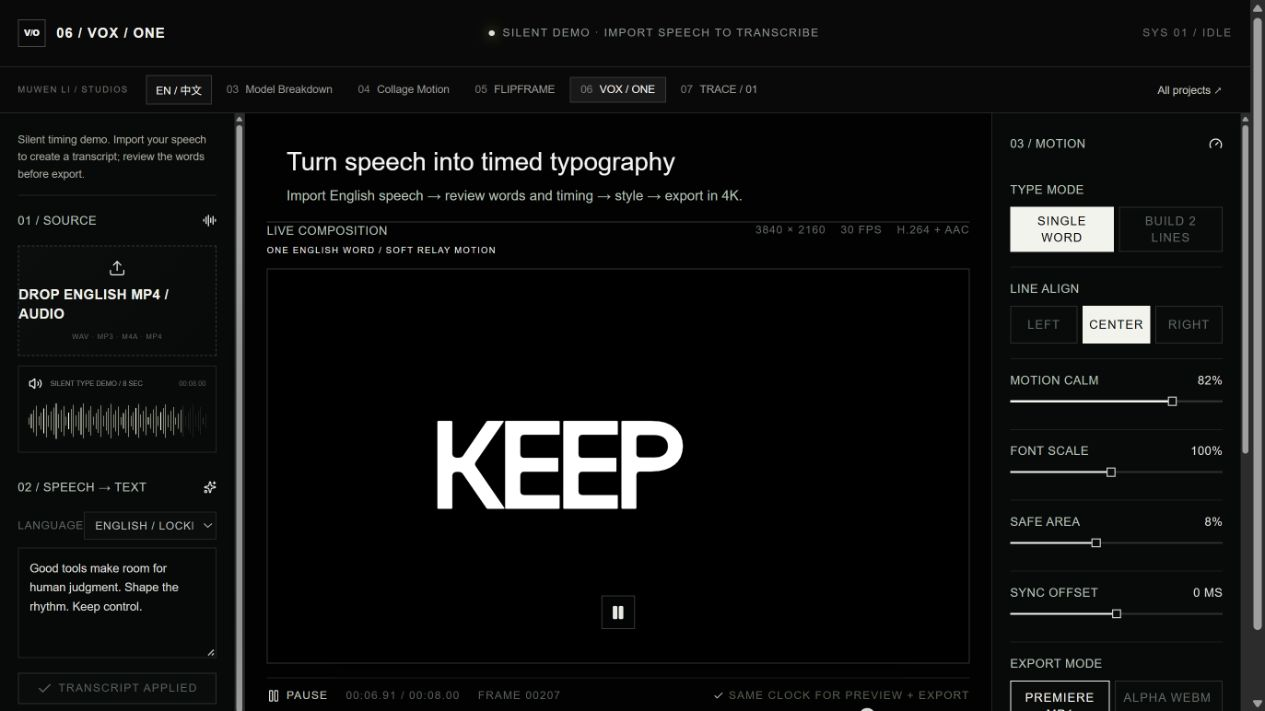
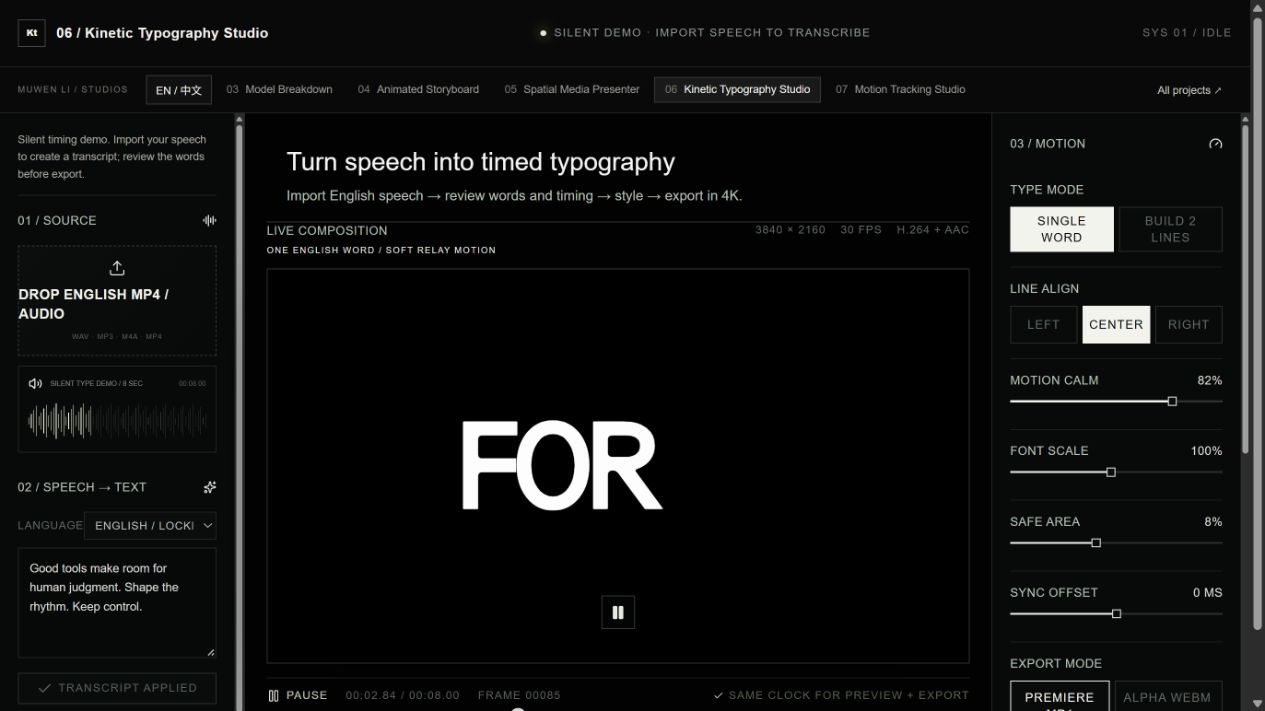
Clarify typography and tracking studio names

diff --git a/docs/collage-motion/index.html b/docs/collage-motion/index.html
@@ -9,7 +9,7 @@
   <div><h1>04 / ANIMATED STORYBOARD <small>MOVING SHOTS → EDITABLE STORYBOARD</small></h1>
   <p><strong>Animated storyboard / shot review &amp; visual pitches.</strong> Compare moving shots, adjust the board, then export a silent review.</p></div>
   <nav class="portfolio-nav" aria-label="Project navigation"><a href="https://github.com/MuwenTriLi/creative-workflows/blob/main/projects/03-collage-motion.md">Project overview ↗</a><a href="https://github.com/MuwenTriLi/creative-workflows#selected-work">All projects ↗</a></nav>
-</header><nav class="family-nav" aria-label="Creative workflow studios"><span>MUWEN LI / STUDIOS</span><a href="https://meshroom-breakdown-studio.limuwen9.chatgpt.site"><b>03</b>Model Breakdown</a><a href="https://muwentrili.github.io/creative-workflows/collage-motion/" aria-current="page"><b>04</b>Animated Storyboard</a><a href="https://flipframe-motion-lab.limuwen9.chatgpt.site"><b>05</b>Spatial Media Presenter</a><a href="https://vox-one.limuwen9.chatgpt.site"><b>06</b>VOX / ONE</a><a href="https://trace-01-motion-tracker.limuwen9.chatgpt.site"><b>07</b>TRACE / 01</a></nav>
+</header><nav class="family-nav" aria-label="Creative workflow studios"><span>MUWEN LI / STUDIOS</span><a href="https://meshroom-breakdown-studio.limuwen9.chatgpt.site"><b>03</b>Model Breakdown</a><a href="https://muwentrili.github.io/creative-workflows/collage-motion/" aria-current="page"><b>04</b>Animated Storyboard</a><a href="https://flipframe-motion-lab.limuwen9.chatgpt.site"><b>05</b>Spatial Media Presenter</a><a href="https://vox-one.limuwen9.chatgpt.site"><b>06</b>Kinetic Typography Studio</a><a href="https://trace-01-motion-tracker.limuwen9.chatgpt.site"><b>07</b>Motion Tracking Studio</a></nav>
 <div id="landscape-collage-editor" lang="zh-CN">
   <style>
     #landscape-collage-editor {

diff --git a/docs/functional-review.md b/docs/functional-review.md
@@ -6,7 +6,7 @@ These are bounded checks on Windows in the Codex in-app Chromium browser. They a
 
 ## Latest studio revision / 23 October
 
-Projects 04–07 now share Model Breakdown's font, numbered navigation and workspace language. English is the default; a Chinese switch is available. Local builds and TypeScript checks passed for Spatial Media Presenter, VOX and TRACE. The latest entrances state each tool’s input, main action and output. Spatial Media Presenter starts Orbital Shift; TRACE starts empty. Model Breakdown uses one public name and a larger, prominent explode control. These presentation changes do not erase the earlier functional limits recorded below.
+Projects 04–07 now share Model Breakdown's font, numbered navigation and workspace language. English is the default; a Chinese switch is available. Local builds and TypeScript checks passed for Spatial Media Presenter, Kinetic Typography Studio and Motion Tracking Studio. The latest entrances state each tool’s input, main action and output. Spatial Media Presenter starts Orbital Shift; Motion Tracking Studio starts empty. Model Breakdown uses one public name and a larger, prominent explode control. These presentation changes do not erase the earlier functional limits recorded below.
 
 Anonymous HTTPS requests to all five public tool entrances returned HTTP 200 after publication. Model Breakdown's Worker-only first-response failure was reproduced locally and fixed by loading the browser Draco decoder during model import instead of server rendering. The production-runtime check now returns 200 and loads the default Press model. This verifies public availability, not equivalent performance on other hardware.
 
@@ -15,8 +15,8 @@ Anonymous HTTPS requests to all five public tool entrances returned HTTP 200 aft
 | Model Breakdown / Press Manufacturing Line | Default 32-part model opens at 1500% explode. Actual local-browser H.264 export: 3840 × 2160, 30 fps, 60 decoded frames, 2.000 s; complete decode passes | This is a two-second technical check. Long sequences, the other two real inputs, all camera angles and other physical devices are not certified |
 | Collage selected 35-shot example | Actual 4K H.264 export: 8 s, 24 fps, 192 frames. All frames decode; image-content checks across all 35 tile interiors show motion rather than a frozen board | Uploaded libraries, many independent video decoders and other devices still require stress testing. The built-in example uses one preview atlas and a higher-resolution export atlas |
 | Spatial Media Presenter revised direct encoder | Two-card 7.45 s / 447 frames and full 25 s / 1,500 frames; both 4K / 60 fps. Sampled frames show the new media and HUD | Long encoding can make the browser unresponsive. Compatibility capture, 6K/8K and other devices are not revalidated |
-| VOX initial example | Eight-second authored silent typography example, with live style controls | This is not a fresh speech-recognition or export test; the earlier synthetic-speech result below has a separate scope |
-| TRACE import-first entrance | No bundled video. Local synthetic clip imports paused with a visible first frame; no target is chosen automatically. Basic moving-target playback and explicit anchor placement checked | Difficult motion and occlusion are not benchmarked. The previous encoded timing failure remains unresolved |
+| Kinetic Typography Studio initial example | Eight-second authored silent typography example, with live style controls | This is not a fresh speech-recognition or export test; the earlier synthetic-speech result below has a separate scope |
+| Motion Tracking Studio import-first entrance | No bundled video. Local synthetic clip imports paused with a visible first frame; no target is chosen automatically. Basic moving-target playback and explicit anchor placement checked | Difficult motion and occlusion are not benchmarked. The previous encoded timing failure remains unresolved |
 
 The Collage 4K fix loads the export atlas as a seekable local Blob before frame sampling. An earlier non-seekable media response had produced repeated image content even while the HUD moved. The acceptance check therefore inspects the shot interiors, not just the container duration. Spatial Media Presenter now considers a supported no-preference WebCodecs configuration before falling back to real-time recording.
 
@@ -33,8 +33,8 @@ The table and reproduction notes below describe the earlier source revisions, be
 | 03 Model Breakdown | Original hosted app: three-part synthetic GLB → orientation/explode/selection → 2 s export. Later, supplied Wood House / Press Manufacturing Line / Car Production Line: loading, switching/cancel, explode, selection; local Wood House file import | Synthetic export: H.264, 3840 × 2160, 30 fps, 60 frames, 2.000 s, full decode. Three real inputs retain 18 / 32 / 30 named parts; 19 tests and production build pass. [Library check](https://github.com/MuwenTriLi/model-breakdown-studio/blob/main/docs/example-model-review.md) | Full export and continuous-frame quality from the three real inputs remain unverified. Four supplied architectural films are separate final-output evidence, not newly reproduced exports |
 | 04 Animated Storyboard | Supplied 40-clip library, 20-shot default presentation with source captions and board paging, sample switching, single-cell replacement, local test-image import and replacement/cancel gate; earlier mixed-proportion image and timeline checks | New 20-shot board export: H.264, 1920 × 1080, 24 fps, 192 frames, 8.000 s; full decode; source captions and review framing included. All 40 viewing copies decode | One browser/configuration; large visitor videos, long projects, 4K and an unassisted creator session remain to check |
 | 05 Spatial Media Presenter | Import a synthetic 4 s clip; trim that clip to 2 s; set a two-card showcase; export 4K | The UI expected 4.65 s. The downloaded H.264 compatibility-path file is **95.0367 s**, with 278 decoded frames and average frame rate about 2.96 fps. **Timing acceptance fails.** | This is one environment/configuration. A completion message is not evidence of a timing-correct export. Existing archive media was not republished |
-| 06 VOX / ONE | Import 7.55 s local synthetic English speech → automatic transcript → punctuation correction → Confirm & Apply → Build 2 Lines → MP4 | All 16 spoken words matched this fixture. Punctuation-only edit preserved displayed word times. H.264 4K / 30 fps / 227 frames with AAC audio; container 7.5733 s; full decode passes | Not a speech accuracy benchmark. No proper-noun/noise/accent test, precise perceptual sync measurement, alpha export or NLE round trip |
-| 07 TRACE / 01 | 4 s moving target with an occluder → Follow Object → target selection → playback → FHD export | Confidence fell during the run and ended at 88%; the exported midpoint shows REACQUIRE. H.264 file decodes, but **3.8267 s / 97 frames / about 25.35 average fps** does not meet the stated 60 fps timing contract | No target-accuracy score or reliable occlusion recovery claim. Local frame/interval repair remains unverified |
+| 06 Kinetic Typography Studio | Import 7.55 s local synthetic English speech → automatic transcript → punctuation correction → Confirm & Apply → Build 2 Lines → MP4 | All 16 spoken words matched this fixture. Punctuation-only edit preserved displayed word times. H.264 4K / 30 fps / 227 frames with AAC audio; container 7.5733 s; full decode passes | Not a speech accuracy benchmark. No proper-noun/noise/accent test, precise perceptual sync measurement, alpha export or NLE round trip |
+| 07 Motion Tracking Studio | 4 s moving target with an occluder → Follow Object → target selection → playback → FHD export | Confidence fell during the run and ended at 88%; the exported midpoint shows REACQUIRE. H.264 file decodes, but **3.8267 s / 97 frames / about 25.35 average fps** does not meet the stated 60 fps timing contract | No target-accuracy score or reliable occlusion recovery claim. Local frame/interval repair remains unverified |
 
 ## Export issues that change the product decision
 
@@ -46,7 +46,9 @@ Read-only source inspection found a direct encoder and a MediaRecorder compatibi
 
 **Next acceptance fixture:** 4.65 s at 60 fps should produce the intended 279-frame sequence with monotonic presentation timestamps and duration within one output frame of the agreed endpoint convention. Inspect the first/last frame and card order. Unsupported devices should receive a clear limitation instead of a success claim for a mistimed file. Iterate export before adding 6K/8K features.
 
-### TRACE: verify encoded timing and target identity separately
+<a id="trace-verify-encoded-timing-and-target-identity-separately"></a>
+
+### Motion Tracking Studio: verify encoded timing and target identity separately
 
 Reproduction: import the 960 × 540 / 30 fps / 4 s synthetic occlusion clip, select Follow Object, click the target, preview and export at FHD. The current file is decodable but shorter and less evenly sampled than the interface promises.
 
@@ -54,13 +56,13 @@ Reproduction: import the 960 × 540 / 30 fps / 4 s synthetic occlusion clip, sel
 
 ## Where processing happens
 
-Read-only source checks found browser-local handling on the tested paths: Spatial Media Presenter canvas/video encoding, TRACE image-template tracking and MediaRecorder export, and VOX Whisper inference via Transformers.js/WASM plus local video/audio encoding. VOX downloads public model weights on first use. No paid inference API invocation was found in these tested paths or made during this audit. This is not a general security or billing audit of every dependency.
+Read-only source checks found browser-local handling on the tested paths: Spatial Media Presenter canvas/video encoding, Motion Tracking Studio image-template tracking and MediaRecorder export, and Kinetic Typography Studio Whisper inference via Transformers.js/WASM plus local video/audio encoding. Kinetic Typography Studio downloads public model weights on first use. No paid inference API invocation was found in these tested paths or made during this audit. This is not a general security or billing audit of every dependency.
 
 That initial read-only audit left the three source checkouts unchanged. The later authorized studio revision modified and published the Sites apps; their full source was not copied into this portfolio repository. Only user-approved display media and documentation were added.
 
 ## Source and verification scope
 
-Original hosted source revisions inspected: Spatial Media Presenter `0ccc833`, VOX `a72b85a`, TRACE `1ad6a04`. Collage UI revision: `0593cef`. Model Breakdown's hosted check is separate from the repository's earlier local-adaptation tests.
+Original hosted source revisions inspected: Spatial Media Presenter `0ccc833`, Kinetic Typography Studio `a72b85a`, Motion Tracking Studio `1ad6a04`. Collage UI revision: `0593cef`. Model Breakdown's hosted check is separate from the repository's earlier local-adaptation tests.
 
 Encoded files were inspected with ffprobe and decoded with FFmpeg while retaining their source time base. Sampled frames were visually checked. This does not establish uninterrupted visual quality or a completed professional editor round trip. No efficiency, adoption or general accuracy percentage is claimed.
 
@@ -70,7 +72,7 @@ This earlier revision exported its sample board from the Collage editor. It used
 
 ## First-visit acceptance scope
 
-The revised Model, Spatial Media Presenter, VOX and TRACE production builds completed locally. Spatial Media Presenter, VOX and TRACE pass TypeScript. Model’s 19 geometry, integrity and application checks pass; its whole-repository TypeScript command still encounters the pre-existing Cloudflare worker declarations described in the model-library review. UI review used a 1280-pixel desktop browser. Anonymous public entry and asset loading are checked after publication; no claim is made that every physical computer performs identically.
+The revised Model, Spatial Media Presenter, Kinetic Typography Studio and Motion Tracking Studio production builds completed locally. Spatial Media Presenter, Kinetic Typography Studio and Motion Tracking Studio pass TypeScript. Model’s 19 geometry, integrity and application checks pass; its whole-repository TypeScript command still encounters the pre-existing Cloudflare worker declarations described in the model-library review. UI review used a 1280-pixel desktop browser. Anonymous public entry and asset loading are checked after publication; no claim is made that every physical computer performs identically.
 
 See the [first task and export guide](studio-delivery.md) for the actions a reviewer can follow.
 
@@ -84,7 +86,7 @@ An actual 4K MP4 was exported with source 053 excluded: H.264, **3840 × 2160, 2
 
 The two replacement Model Breakdown films preserve the complete supplied durations (11.5 and 11 seconds) at 30 fps. The web MP4s are 1080 × 1920 derivatives of the supplied 2160 × 3840 originals; README animations are smaller previews. [Watch the complete films](https://muwentrili.github.io/creative-workflows/model-breakdown-films/).
 
-The three Sites affected by the navigation/name update built successfully before publication. The [sharing guide](share-and-review.md) distinguishes public access checks from physical-device performance and keeps TRACE's existing export-timing limitation explicit.
+The three Sites affected by the navigation/name update built successfully before publication. The [sharing guide](share-and-review.md) distinguishes public access checks from physical-device performance and keeps Motion Tracking Studio's existing export-timing limitation explicit.
 
 Post-publication anonymous checks returned HTTP 200 for all five studio entrances and **98 hosted resources**: the 35 storyboard source clips and posters, both playback/export atlases, 15 spatial-presentation visuals, six model-library resources and the five new film-page files. The requests used no account cookies or credentials. Public UI checks confirmed the renamed navigation and the 35-source manager. This verifies availability and the exercised desktop workflows, not identical performance on another physical device.
 
@@ -96,8 +98,8 @@ The packaged copy was served on local HTTP and opened in the review browser: the
 
 ## 2026-10-23 / Portfolio navigation and documentation review
 
-The presentation follows projects 01–07: Clockwork, Architecture Growth, Model Breakdown, Animated Storyboard, Spatial Media Presenter, VOX and TRACE. The project index separates case-study links from direct app/film entrances; implementation, controls and source remain available inside the cases. The repository map and versioned local demo release remain in place.
+The presentation follows projects 01–07: Clockwork, Architecture Growth, Model Breakdown, Animated Storyboard, Spatial Media Presenter, Kinetic Typography Studio and Motion Tracking Studio. The project index separates case-study links from direct app/film entrances; implementation, controls and source remain available inside the cases. The repository map and versioned local demo release remain in place.
 
-This review checked 49 Markdown documents across the three public portfolio repositories and 629 internal or cross-repository file/heading references. One stale Spatial Media Presenter anchor was repaired. All 84 distinct public URLs checked returned HTTP 200 or 206 without account credentials, including 17 film files and their covers. The five studio entrances were also opened in the desktop review browser: the model loaded, Storyboard showed its 35-shot board, Spatial Media Presenter loaded its 15-work example, VOX showed its authored text demo, and TRACE opened empty for import.
+This review checked 49 Markdown documents across the three public portfolio repositories and 629 internal or cross-repository file/heading references. One stale Spatial Media Presenter anchor was repaired. All 84 distinct public URLs checked returned HTTP 200 or 206 without account credentials, including 17 film files and their covers. The five studio entrances were also opened in the desktop review browser: the model loaded, Storyboard showed its 35-shot board, Spatial Media Presenter loaded its 15-work example, Kinetic Typography Studio showed its authored text demo, and Motion Tracking Studio opened empty for import.
 
 Outdated sample counts, historical-result labels and current control names were reconciled. These are navigation, availability and initial-interface checks. No fresh export benchmark, independent creator study or second-physical-computer certification was performed in this documentation revision; the existing delivery limitations above still apply.

diff --git a/README.md b/README.md
@@ -21,10 +21,10 @@ I model, direct visual production and use AI-assisted code to turn recurring pro
 | **03 · [Model Breakdown Studio](https://github.com/MuwenTriLi/model-breakdown-studio)** | A dense model is hard to explain → selectable parts, exploded views and editable reveals | [Open&nbsp;web&nbsp;app](https://meshroom-breakdown-studio.limuwen9.chatgpt.site) |
 | **04 · [Animated Storyboard](projects/03-collage-motion.md)** | Separate clips make shot comparison awkward → one moving board with local revisions | [Open&nbsp;web&nbsp;app](https://muwentrili.github.io/creative-workflows/collage-motion/) |
 | **05 · [Spatial Media Presenter](projects/04-flipframe.md)** | A collection needs editorial pacing → editable spatial order, transitions and holds | [Open&nbsp;web&nbsp;app](https://flipframe-motion-lab.limuwen9.chatgpt.site) |
-| **06 · [VOX / ONE](projects/05-vox-one.md)** | Speech and visual rhythm need to agree → editable words, timing and typography | [Open&nbsp;web&nbsp;app](https://vox-one.limuwen9.chatgpt.site) |
-| **07 · [TRACE / 01](projects/06-trace-01.md)** | A moving subject needs visual context → target selection, anchors and overlays | [Try&nbsp;prototype](https://trace-01-motion-tracker.limuwen9.chatgpt.site) |
+| **06 · [Kinetic Typography Studio](projects/05-vox-one.md)** | Speech and visual rhythm need to agree → editable words, timing and typography | [Open&nbsp;web&nbsp;app](https://vox-one.limuwen9.chatgpt.site) |
+| **07 · [Motion Tracking Studio](projects/06-trace-01.md)** | A moving subject needs visual context → target selection, anchors and overlays | [Try&nbsp;prototype](https://trace-01-motion-tracker.limuwen9.chatgpt.site) |
 
-**Review status:** the browser tools are interactive prototypes with documented export checks. TRACE still has a known export-timing issue. [Tested outputs and current limits](docs/functional-review.md).
+**Review status:** the browser tools are interactive prototypes with documented export checks. Motion Tracking Studio still has a known export-timing issue. [Tested outputs and current limits](docs/functional-review.md).
 
 **What to look for:** how I turn a production problem into editable behavior, use AI to assist implementation, and keep creative decisions with the person making the work. [Process, controls and evidence](docs/review-guide.md).
 
@@ -98,24 +98,24 @@ Turn images and motion studies into a presentation that moves from a collection 
 
 [Open the presenter →](https://flipframe-motion-lab.limuwen9.chatgpt.site) · [Full case study](projects/04-flipframe.md) · [Watch the 25 s sequence](https://muwentrili.github.io/creative-workflows/collage-motion/process/#flipframe) · [4K export guide](docs/studio-delivery.md)
 
-## 06 / VOX / ONE — speech into timed typography
+## 06 / Kinetic Typography Studio — speech into timed typography
 
 **Import speech · Correct the words · Shape the visual rhythm**
 
 <table><tr>
-<td align="center" valign="top"><a href="https://vox-one.limuwen9.chatgpt.site"><img src="media/vox-one-editor.png" width="960" alt="VOX ONE: source media, editable transcript, live typography preview and styling controls"></a><br><b>Editable words, timing and visual emphasis</b><br><sub>Speech-led typography · Transcript correction · Preview before delivery</sub></td>
+<td align="center" valign="top"><a href="https://vox-one.limuwen9.chatgpt.site"><img src="media/vox-one-editor.png" width="960" alt="Kinetic Typography Studio: source media, editable transcript, live typography preview and styling controls"></a><br><b>Editable words, timing and visual emphasis</b><br><sub>Speech-led typography · Transcript correction · Preview before delivery</sub></td>
 </tr></table>
 
 Turn spoken English into timed typography, then review the wording, phrasing and visual emphasis. The studio opens with a silent, authored typography example; import a voice clip to use the speech workflow. Real-speech validation remains part of the next review.
 
 [Open the typography studio →](https://vox-one.limuwen9.chatgpt.site) · [Full case study](projects/05-vox-one.md) · [Verified scope & next checks](docs/functional-review.md) · [Export guide](docs/studio-delivery.md)
 
-## 07 / TRACE / 01 — target tracking and motion annotation
+## 07 / Motion Tracking Studio — target tracking and motion annotation
 
 **Import your footage · Choose a target or anchor · Review the overlay**
 
 <table><tr>
-<td align="center" valign="top"><a href="https://trace-01-motion-tracker.limuwen9.chatgpt.site"><img src="media/trace-01-editor.png" width="960" alt="TRACE 01: an empty video import workspace with target selection, position anchor and HUD controls"></a><br><b>Make a subject easier to follow</b><br><sub>Your video · Target 01 or a fixed position anchor · Editable white HUD</sub></td>
+<td align="center" valign="top"><a href="https://trace-01-motion-tracker.limuwen9.chatgpt.site"><img src="media/trace-01-editor.png" width="960" alt="Motion Tracking Studio: an empty video import workspace with target selection, position anchor and HUD controls"></a><br><b>Make a subject easier to follow</b><br><sub>Your video · Target 01 or a fixed position anchor · Editable white HUD</sub></td>
 </tr></table>
 
 Connect a subject to a readable locator, path and information overlay. The studio starts empty: import your footage, select a target or place a fixed anchor, then inspect the result. Export timing remains under review; this project is presented as a prototype with documented limits.

diff --git a/docs/studio-delivery.md b/docs/studio-delivery.md
@@ -2,15 +2,15 @@
 
 [All projects](../README.md) · [Test results and known limits](functional-review.md)
 
-Each studio has one primary task. Use the opening example to understand the output, then replace the input with your own work. TRACE starts empty because a tracking target must come from the creator's footage.
+Each studio has one primary task. Use the opening example to understand the output, then replace the input with your own work. Motion Tracking Studio starts empty because a tracking target must come from the creator's footage.
 
 | Studio | Input | First useful action | Output |
 | --- | --- | --- | --- |
 | [03 Model Breakdown](https://meshroom-breakdown-studio.limuwen9.chatgpt.site) | A GLB with separate named parts | Compare Assembled / Exploded view; select a component | An explanatory model animation |
 | [04 Animated Storyboard](https://muwentrili.github.io/creative-workflows/collage-motion/) | Clips or images | Compare the 35-shot board; replace one cell, adjust spacing and captions | A moving storyboard for shot review |
 | [05 Spatial Media Presenter](https://flipframe-motion-lab.limuwen9.chatgpt.site) | Images and clips | Pause Orbital Shift; arrange the archive and set readable holds | A spatial media presentation |
-| [06 VOX / ONE](https://vox-one.limuwen9.chatgpt.site) | English speech in audio/video | Import, check the transcript, correct words and timing, then Confirm & Apply | Timed typography with the source audio |
-| [07 TRACE / 01](https://trace-01-motion-tracker.limuwen9.chatgpt.site) | Your video | Find a clear frame, click target 01 or choose Position anchor and click a location | Numbered motion annotation with a path and HUD |
+| [06 Kinetic Typography Studio](https://vox-one.limuwen9.chatgpt.site) | English speech in audio/video | Import, check the transcript, correct words and timing, then Confirm & Apply | Timed typography with the source audio |
+| [07 Motion Tracking Studio](https://trace-01-motion-tracker.limuwen9.chatgpt.site) | Your video | Find a clear frame, click target 01 or choose Position anchor and click a location | Numbered motion annotation with a path and HUD |
 
 ## Model Breakdown: a first 4K export
 
@@ -26,12 +26,12 @@ The revised Press model completed an actual two-second, 4K30 H.264 export: 60 de
 
 - **Collage:** keep shot numbers visible; check captions, spacing and movement inside every cell. Review & export opens resolution and timing controls. The selected example uses an optimized preview atlas; imported high-resolution clips can require more resources.
 - **Spatial Media Presenter:** the opening 25-second sequence demonstrates Orbital Shift. Pause to edit; replay the full sequence to inspect order, transitions and holds. Choose Review & export, select 4K and render. The direct encoder has verified 4K60 sample outputs; the compatibility capture path has a separately recorded timing limitation.
-- **VOX:** the opening animation is a silent, authored example. Import English speech to generate a transcript locally, review the words and apply corrections. Use Premiere MP4 for black-background H.264/AAC; the optional transparent WebM path has a separate validation scope.
-- **TRACE:** importing a video does not create an anchor. Click to select one, play to inspect whether it follows the intended subject, and use Position anchor for a fixed annotation. Review & export exposes output settings. The earlier real-time export did not preserve its stated frame-rate/timing contract; treat TRACE output as a prototype until that issue is resolved.
+- **Kinetic Typography Studio:** the opening animation is a silent, authored example. Import English speech to generate a transcript locally, review the words and apply corrections. Use Premiere MP4 for black-background H.264/AAC; the optional transparent WebM path has a separate validation scope.
+- **Motion Tracking Studio:** importing a video does not create an anchor. Click to select one, play to inspect whether it follows the intended subject, and use Position anchor for a fixed annotation. Review & export exposes output settings. The earlier real-time export did not preserve its stated frame-rate/timing contract; treat Motion Tracking Studio output as a prototype until that issue is resolved.
 
 ## Opening on another computer
 
-Use the public HTTPS links above; a local file path or this computer's saved board is not required. The provided Model, Collage and Spatial Media Presenter examples load from public presentation assets. A visitor's own media is imported into that browser. VOX downloads public speech-model weights on first use, so that first transcription can take longer.
+Use the public HTTPS links above; a local file path or this computer's saved board is not required. The provided Model, Collage and Spatial Media Presenter examples load from public presentation assets. A visitor's own media is imported into that browser. Kinetic Typography Studio downloads public speech-model weights on first use, so that first transcription can take longer.
 
 Editing speed and 4K encoding depend on the browser, codec support, GPU, memory and input size. The desktop-browser checks are recorded precisely in the functional review. Other physical computers, mobile browsers and large user libraries still need testing; identical performance is not claimed.
 

diff --git a/docs/creative-control.md b/docs/creative-control.md
@@ -6,8 +6,8 @@ My design question is: **which parts of a creative job can a system complete rel
 
 ## What exists and what is proposed
 
-- **Observed VOX confirmation:** a punctuation-only draft edit waits for Confirm & Apply; the test preserved displayed word timestamps. A broader semantic approval system is not claimed.
-- **Observed TRACE feedback:** live confidence and REACQUIRE exist; regional repair/history is still unverified.
+- **Observed Kinetic Typography Studio confirmation:** a punctuation-only draft edit waits for Confirm & Apply; the test preserved displayed word timestamps. A broader semantic approval system is not claimed.
+- **Observed Motion Tracking Studio feedback:** live confidence and REACQUIRE exist; regional repair/history is still unverified.
 - **Implemented Collage gates:** media readiness blocks premature export; editing is locked during rendering and restored afterward. These are local application controls, not a semantic approval system.
 - **Existing tools:** parameter-driven Blender assets and interactive browser applications. Their case pages identify observed controls and the scope of actual tests.
 - **AI during development:** Muwen modeled and organized Clockwork's original source collection. Codex assisted source inspection, mechanism/linkage development and implementation under his direction. This is distinct from an AI agent operating the finished tool for its user.
@@ -24,8 +24,8 @@ My design question is: **which parts of a creative job can a system complete rel
 | [Model Breakdown](https://github.com/MuwenTriLi/model-breakdown-studio/blob/main/docs/product-case.md) | Import, part selection and parameter-driven exploded presentation | What the model is explaining, focal part, framing and reveal order | Can the viewer identify the intended component and its relationship to the assembly? |
 | [Animated Storyboard](../projects/03-collage-motion.md) | Load the selected sample board; calculate grid layout, cell timing and movement from parameters | Source media, order, crops, pacing and final composition | Are key subjects visible and does the encoded video match the reviewed sequence? |
 | [Spatial Media Presenter](../projects/04-flipframe.md) | Calculate card movement and timing from the selected sequence | Editorial order, entry/exit range and readable dwell | Can viewers inspect the intended content without clipping or rushed transitions? |
-| [VOX / ONE](../projects/05-vox-one.md) | Interface advertises local speech recognition and word timing; processing is not benchmarked here | Transcript corrections, phrase meaning, emphasis and final synchronization | Does the typography preserve the spoken meaning and remain readable against the audio? |
-| [TRACE / 01](../projects/06-trace-01.md) | Interface exposes target following and trajectory smoothing; accuracy remains unbenchmarked | Target identity, follow/static mode, correction and graphic hierarchy | Does the annotation stay on the intended target and communicate without obscuring it? |
+| [Kinetic Typography Studio](../projects/05-vox-one.md) | Interface advertises local speech recognition and word timing; processing is not benchmarked here | Transcript corrections, phrase meaning, emphasis and final synchronization | Does the typography preserve the spoken meaning and remain readable against the audio? |
+| [Motion Tracking Studio](../projects/06-trace-01.md) | Interface exposes target following and trajectory smoothing; accuracy remains unbenchmarked | Target identity, follow/static mode, correction and graphic hierarchy | Does the annotation stay on the intended target and communicate without obscuring it? |
 
 ## Change one thing without restarting the job
 
@@ -38,8 +38,8 @@ Local correction is a product requirement, not the same as offering a global “
 | Model Breakdown | Focal part, explode amount or framing | Imported geometry and the explanation; revision rollback remains proposed |
 | Animated Storyboard | One selected cell's source or framing, or a chosen timing control | Imported media and accepted editorial choices; session persistence is absent |
 | Spatial Media Presenter | One card's framing or hold | Archive order and accepted sequence; revised 7.45 s and 25 s 4K exports pass their stated timing checks; readability remains to be studied |
-| VOX / ONE | Wrong word or mistimed span | Spoken meaning and neighboring timing; word-level recovery needs verification |
-| TRACE / 01 | Failed target interval | Subject identity and good intervals; regional repair remains unverified |
+| Kinetic Typography Studio | Wrong word or mistimed span | Spoken meaning and neighboring timing; word-level recovery needs verification |
+| Motion Tracking Studio | Failed target interval | Subject identity and good intervals; regional repair remains unverified |
 
 For a future agent, show the proposed change and its affected scope before applying changes to meaning, identity or structure. Recompute dependent output after a local edit, but avoid changing unrelated creative decisions. Keeping a parameter editable does not establish rollback or non-destructive revision history.
 

diff --git a/docs/review-guide.md b/docs/review-guide.md
@@ -13,8 +13,8 @@ This portfolio connects three kinds of evidence: a commercial asset product, int
 3. **Model Breakdown Studio — working interaction:** [Open the app](https://meshroom-breakdown-studio.limuwen9.chatgpt.site). Compare assembled and exploded views, select a part and change the explanation. The opening model is Press Manufacturing Line.
 4. **Animated Storyboard — feedback into product iteration:** [Case decisions](../projects/03-collage-motion.md#from-production-experience-to-product-decisions). Revise a source on the moving board, then follow the [implementation and test map](animated-storyboard-handoff.md).
 5. **Spatial Media Presenter — editable pacing:** [Sequence case](../projects/04-flipframe.md). Inspect order, transitions and readable holds.
-6. **VOX / ONE — speech and type:** [Typography case](../projects/05-vox-one.md). Review transcript correction, timing and the bounded speech checks.
-7. **TRACE / 01 — tracking and recovery:** [Prototype case](../projects/06-trace-01.md). Inspect target selection, anchors and the remaining export issue.
+6. **Kinetic Typography Studio — speech and type:** [Typography case](../projects/05-vox-one.md). Review transcript correction, timing and the bounded speech checks.
+7. **Motion Tracking Studio — tracking and recovery:** [Prototype case](../projects/06-trace-01.md). Inspect target selection, anchors and the remaining export issue.
 
 The order matches the portfolio. Each case supports a different part of the production-to-product story; the evidence table below distinguishes its current maturity.
 
@@ -27,8 +27,8 @@ The order matches the portfolio. Each case supports a different part of the prod
 | **03 · [Model Breakdown](https://github.com/MuwenTriLi/model-breakdown-studio/blob/main/docs/product-case.md)** | Four architectural output films and stills; three selectable real GLBs with loading, explode and selection checks; short synthetic and real Press-model 4K export checks; MIT repository code | A process recording connecting a real input to the selected output, one framing correction and an unfamiliar creator task | **Iterate** the import-to-delivery path before claiming general model support. |
 | **04 · [Animated Storyboard](../projects/03-collage-motion.md)** | 35-shot presentation, original white HUD styles, local shot replacement and an eight-second 4K / 24 fps export with motion verified in all 35 tiles | Unassisted first-use task; larger projects and mixed-media output quality checks | **Iterate** usability with creators before adding automatic editorial choices. |
 | **05 · [Spatial Media Presenter](../projects/04-flipframe.md)** | Updated 15-visual example; revised direct 4K exports match 7.45 s and 25 s timing | Viewer readability study, compatibility capture and long-project responsiveness | **Validate readability and compatibility** before expanding motion modes. |
-| **06 · [VOX / ONE](../projects/05-vox-one.md)** | Clean synthetic English transcription, confirmed punctuation correction and 4K H.264/AAC output | Real speech with names/noise, measured sync, alpha output and editor round trip | **Validate the core task** before expanding languages or automation. |
-| **07 · [TRACE / 01](../projects/06-trace-01.md)** | Occlusion fixture, confidence/reacquire state and downloaded FHD export; timing check fails | Correct encoded timing, target-identity review and recoverable local correction | **Fix export and validate recovery** before expanding tracking scope. |
+| **06 · [Kinetic Typography Studio](../projects/05-vox-one.md)** | Clean synthetic English transcription, confirmed punctuation correction and 4K H.264/AAC output | Real speech with names/noise, measured sync, alpha output and editor round trip | **Validate the core task** before expanding languages or automation. |
+| **07 · [Motion Tracking Studio](../projects/06-trace-01.md)** | Occlusion fixture, confidence/reacquire state and downloaded FHD export; timing check fails | Correct encoded timing, target-identity review and recoverable local correction | **Fix export and validate recovery** before expanding tracking scope. |
 
 “Current decision” is a product recommendation based on the available evidence, not a completed customer-study result. There are no measured time-saving, accuracy or adoption claims.
 

diff --git a/docs/share-and-review.md b/docs/share-and-review.md
@@ -13,8 +13,8 @@ The public repository is the front door. A reviewer can read it without a GitHub
 3. **Model Breakdown Studio:** compare assembled and exploded views, select a component, or switch among the three models.
 4. **Animated Storyboard:** compare the moving shots. Below the canvas, **Source clips** provides individual playback, order, framing and include/hide controls. Hidden clips are excluded from both board and export; removing a card does not delete the source file.
 5. **Spatial Media Presenter:** arrange images and motion studies into a spatial presentation. Orbital Shift plays on entry.
-6. **VOX / ONE:** inspect the silent typography example; import a voice clip to explore editable words and timing.
-7. **TRACE / 01:** import your own video, then select a target or place a fixed position anchor. Review its documented export-timing limitation before relying on delivery.
+6. **Kinetic Typography Studio:** inspect the silent typography example; import a voice clip to explore editable words and timing.
+7. **Motion Tracking Studio:** import your own video, then select a target or place a fixed position anchor. Review its documented export-timing limitation before relying on delivery.
 
 For a local copy of Animated Storyboard, use the versioned package under [Releases](https://github.com/MuwenTriLi/creative-workflows/releases), following the [local setup guide](distribution.md). The README's [repository map](../README.md#repository-map) explains where cases, source and evidence live.
 
@@ -22,6 +22,6 @@ For a local copy of Animated Storyboard, use the versioned package under [Releas
 
 All five studio entrances are public web pages. Bundled examples are hosted assets; visitors do not need Muwen's local folders. Imports are selected from the visitor's own device. Use a current desktop browser, preferably Chrome or Edge for the tested browser video encoders. Keep the export tab foregrounded and play the downloaded file through before delivery.
 
-Anonymous HTTP checks establish public access without account cookies. They do **not** establish identical playback speed on every GPU, browser or connection. Actual checks and known limitations are recorded in the [functional review](functional-review.md); [4K export steps](studio-delivery.md) explain each tool's output flow. TRACE's real-time export timing remains a documented limitation.
+Anonymous HTTP checks establish public access without account cookies. They do **not** establish identical playback speed on every GPU, browser or connection. Actual checks and known limitations are recorded in the [functional review](functional-review.md); [4K export steps](studio-delivery.md) explain each tool's output flow. Motion Tracking Studio's real-time export timing remains a documented limitation.
 
 The new Model Breakdown films are [available here](https://muwentrili.github.io/creative-workflows/model-breakdown-films/), with full duration and 30 fps playback. README animations are compact previews; the linked MP4s are the clearer viewing format.

diff --git a/docs/evidence-to-add.md b/docs/evidence-to-add.md
@@ -11,8 +11,8 @@ The next useful addition is an input → decision → local correction → check
 | 03 Model Breakdown | Four architectural films, detail stills and three named GLB examples are now supplied. Next: explicit model credits, a chosen focal component and one checked real-input export | Import/orient → assembled/exploded → select one part → correct framing or timing → export | Real geometry preserves relationships and the explanation. Include one fused-mesh or naming limitation |
 | 04 Animated Storyboard | 35 selected BITFLIP clips, an eight-second 4K board and three supplied design demos are now available. Next: one real shot-review brief and an explained local revision | Sample board → replace with own clips → revise spacing or one shot → inspect output | First-use clarity and local correction. Ask an unfamiliar creator to do it without coaching; record confusion and assistance |
 | 05 Spatial Media Presenter | 15 approved visuals and a timing-correct 25 s 4K sequence are now supplied. Next: an explicit reading-order brief and one explained local correction | Adjust a single crop/hold, show slow-showcase IN/OUT and explain that the introductory scan includes the archive | Readability and pacing. Test viewer readability and compatibility capture; the revised direct 4K path has bounded timing checks |
-| 06 VOX / ONE | 10–20 s authorized English voice, exact transcript including a name/pause, two visual treatments and output | Correct one genuine transcription/phrasing issue → confirm → compare timestamp/phrase layout → check against audio | Automatic draft with creator authority over meaning. Test names/noise and an editor round trip; synthetic clean speech is insufficient |
-| 07 TRACE / 01 | Two approved 5–10 s clips: clear target and occlusion/crossing; annotated target identity and output | Select target → inspect difficult interval → show recovery or honest fallback → stage HUD → export | Failure visibility and recoverability. Fix timing; do not substitute smoothing for target correction |
+| 06 Kinetic Typography Studio | 10–20 s authorized English voice, exact transcript including a name/pause, two visual treatments and output | Correct one genuine transcription/phrasing issue → confirm → compare timestamp/phrase layout → check against audio | Automatic draft with creator authority over meaning. Test names/noise and an editor round trip; synthetic clean speech is insufficient |
+| 07 Motion Tracking Studio | Two approved 5–10 s clips: clear target and occlusion/crossing; annotated target identity and output | Select target → inspect difficult interval → show recovery or honest fallback → stage HUD → export | Failure visibility and recoverability. Fix timing; do not substitute smoothing for target correction |
 
 ## A consistent case package
 

diff --git a/projects/06-trace-01.md b/projects/06-trace-01.md
@@ -1,4 +1,4 @@
-# 07 / TRACE / 01
+# 07 / Motion Tracking Studio
 
 [← All projects](https://github.com/MuwenTriLi/creative-workflows#selected-work)
 
@@ -8,7 +8,7 @@ Make a moving target easier to follow by connecting its position to a readable p
 
 **[Open web app ↗](https://trace-01-motion-tracker.limuwen9.chatgpt.site)** · No sign-in required
 
-![TRACE 01 video workspace, positioning mode and HUD inspector](../media/trace-01-editor.png)
+![Motion Tracking Studio video workspace, positioning mode and HUD inspector](../media/trace-01-editor.png)
 *The English-default studio starts empty. Import your own video, pause on a clear frame, then click a subject for Target 01 tracking or choose Position anchor for a fixed annotation. No footage or anchor is selected for you. Playback, language and three white HUD presets sit above the preview; output controls sit on the right.*
 
 ## The smallest useful task

diff --git a/projects/05-vox-one.md b/projects/05-vox-one.md
@@ -1,4 +1,4 @@
-# 06 / VOX / ONE
+# 06 / Kinetic Typography Studio
 
 [← All projects](https://github.com/MuwenTriLi/creative-workflows#selected-work)
 
@@ -8,7 +8,7 @@ Turn spoken English into editable, timed typography, with control over phrasing,
 
 **[Open web app ↗](https://vox-one.limuwen9.chatgpt.site)** · No sign-in required
 
-![VOX ONE source, transcript, live composition and typography controls](../media/vox-one-editor.png)
+![Kinetic Typography Studio source, transcript, live composition and typography controls](../media/vox-one-editor.png)
 *The English-default studio starts with an eight-second silent typography example. Its text and timing are authored demo data, not an automatic transcription. Import a voice clip to exercise the speech workflow; a Chinese interface switch is available.*
 
 ## The smallest useful task
